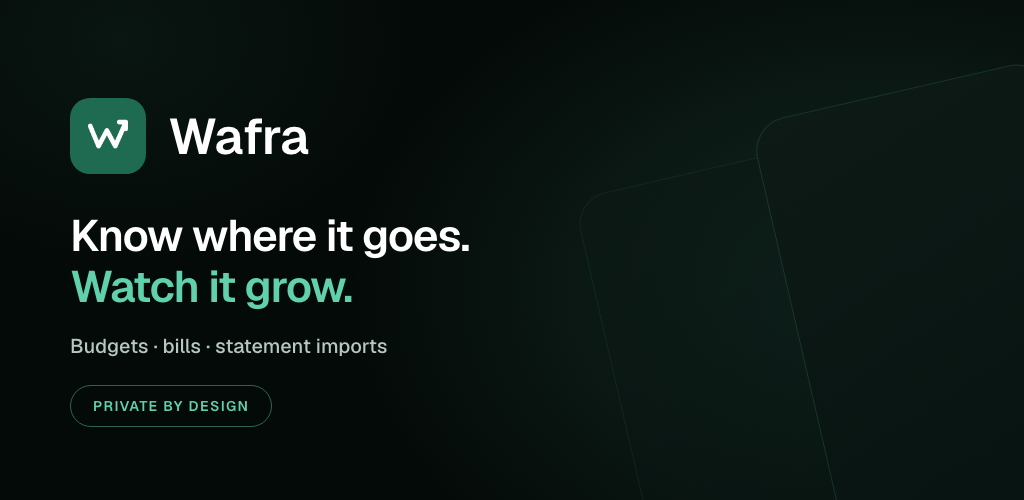
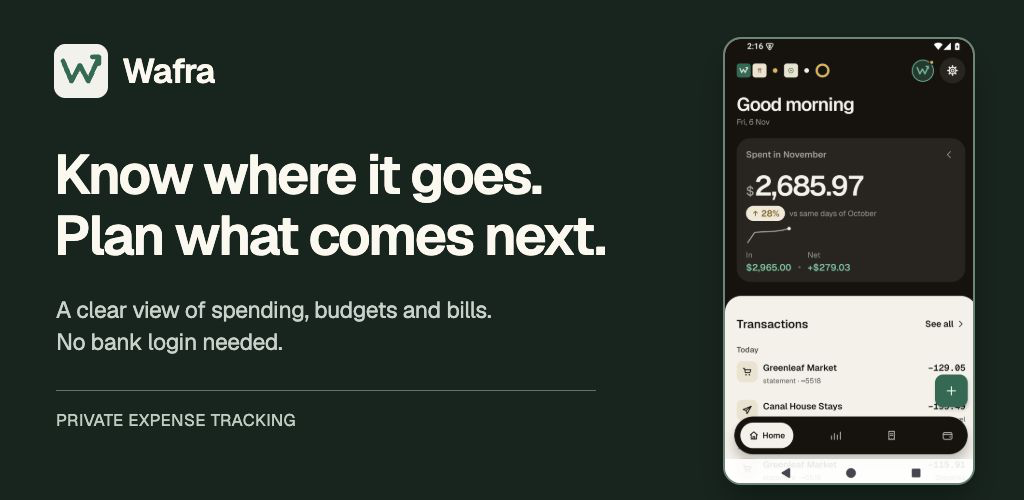
Polish Google Play launch copy and screenshot presentation

diff --git a/docs/store-assets/play/presentation/index.html b/docs/store-assets/play/presentation/index.html
@@ -1,0 +1,12 @@
+<!doctype html><html lang="en"><head><meta charset="utf-8"><meta name="viewport" content="width=device-width,initial-scale=1"><title>Wafra store presentation</title><style>
+@font-face{font-family:Geist;src:url('../../../../public/fonts/Geist-Regular.ttf');font-weight:400}@font-face{font-family:Geist;src:url('../../../../public/fonts/Geist-Medium.ttf');font-weight:500}@font-face{font-family:Geist;src:url('../../../../public/fonts/Geist-SemiBold.ttf');font-weight:600}
+*{box-sizing:border-box}html,body{margin:0;width:1080px;height:1920px;overflow:hidden;background:#f5f1e7;font-family:Geist,sans-serif}.stage{width:1080px;height:1920px;position:relative;overflow:hidden;--bg:#f4f0e7;--fg:#191b17;--muted:#62645e;background:var(--bg);color:var(--fg)}.ink{--bg:#14251e;--fg:#fcf8ef;--muted:#bbcbc2}.indigo{--bg:#252c55;--fg:#fcf8ef;--muted:#c6cce4}.ochre{--bg:#e3b75e;--fg:#24201a;--muted:#65522f}.slate{--bg:#285665;--fg:#fcf8ef;--muted:#c0d0d3}.brand{position:absolute;top:66px;left:72px;display:flex;align-items:center;gap:18px;font-size:36px;font-weight:600;letter-spacing:-1px}.brand img{width:62px;height:62px}.category{position:absolute;top:89px;right:74px;color:var(--muted);font-size:22px;letter-spacing:.6px}.heading{position:absolute;left:72px;top:175px;margin:0;font-size:86px;line-height:1.04;letter-spacing:-3.4px;font-weight:600;max-width:945px}.sub{position:absolute;left:76px;top:387px;width:900px;font-size:31px;line-height:1.35;color:var(--muted);margin:0;letter-spacing:-.4px}.device{position:absolute;top:510px;left:110px;width:860px;height:1370px;overflow:hidden;border:2px solid rgba(0,0,0,.14);border-radius:34px;box-shadow:0 22px 45px rgba(0,0,0,.14);background:#f5f1e7}.device img{position:absolute;left:0;top:-47.78px;width:860px;height:1528.89px}.footer{position:absolute;left:74px;right:74px;bottom:19px;display:flex;justify-content:space-between;font-size:19px;color:var(--muted);letter-spacing:.2px}.focus{position:absolute;left:72px;top:690px;width:936px;overflow:hidden;border-radius:30px;box-shadow:0 18px 44px rgba(0,0,0,.12);border:1px solid rgba(0,0,0,.12);background:#f5f1e7}.focus img{position:absolute;max-width:none}.focus-label{position:absolute;top:585px;left:76px;font-size:24px;font-weight:500;color:var(--muted)}.note{position:absolute;left:76px;right:76px;bottom:165px;font-size:34px;line-height:1.4;letter-spacing:-.5px;max-width:820px}.privacy .focus{left:72px;width:936px;top:640px;height:225px}.privacy .focus.second{top:980px;height:185px}.privacy .focus img{width:991.06px;left:-26.02px;top:-954.35px}.privacy .focus.second img{top:-1303.04px}.privacy .fact{position:absolute;left:76px;top:1210px;font-size:42px;line-height:1.8;letter-spacing:-1px}.fact span{display:block}.fact span:before{content:'✓';color:#1f6b52;margin-right:22px;font-weight:600}.feature{width:1024px;height:500px;background:#14251e;color:#fcf8ef}.feature .brand{left:54px;top:44px;font-size:34px;gap:14px}.feature .brand img{width:54px;height:54px}.feature .heading{left:54px;top:144px;max-width:620px;font-size:55px;line-height:1.1;letter-spacing:-2px}.feature .sub{left:56px;top:294px;width:580px;font-size:23px;line-height:1.4;color:#c6d1ca}.feature .pill{position:absolute;left:56px;top:390px;font-size:17px;letter-spacing:.4px;border-top:1px solid #547665;padding-top:18px;width:540px;color:#b9cfbf}.feature .device{top:37px;left:723px;width:252px;height:448px;border-radius:18px;box-shadow:0 18px 30px #0004;border:2px solid #668776}.feature .device img{width:252px;height:448px;top:0}
+</style></head><body><main class="stage" id="stage"></main><script>
+(async()=>{const q=new URLSearchParams(location.search),f=q.get('frame')||'01-home',stage=document.querySelector('#stage');const img=(file)=>'../native-source/'+file;const logo='../../../../public/wafra-icon.svg';
+if(f==='feature'){document.documentElement.style.cssText='width:1024px;height:500px';document.body.style.cssText='width:1024px;height:500px';stage.className='stage feature';stage.innerHTML=`<div class="brand"><img src="${logo}">Wafra</div><h1 class="heading">Know where it goes.<br>Plan what comes next.</h1><p class="sub">A clear view of spending, budgets and bills.<br>No bank login needed.</p><div class="pill">PRIVATE EXPENSE TRACKING</div><div class="device"><img src="${img('01-home.png')}"></div>`;}
+else{const frames=await(await fetch('./frames.json')).json(),p=frames.find(x=>x.id===f);if(!p)throw Error('Unknown frame');stage.className='stage '+p.theme+(p.kind==='privacy'?' privacy':'');stage.innerHTML=`<div class="brand"><img src="${logo}">Wafra</div><div class="category">PERSONAL FINANCE</div><h1 class="heading">${p.headline.join('<br>')}</h1><p class="sub">${p.sub}</p><div class="footer"><span>Actual app screens · Sample data</span><span>${String(frames.indexOf(p)+1).padStart(2,'0')} / 08</span></div>`;
+if(p.kind==='full')stage.innerHTML+=`<div class="device"><img src="${img(p.source)}"></div>`;
+else if(p.kind==='focus'){let[x,y,w,h]=p.focus,s=936/w;stage.innerHTML+=`<div class="focus-label">IN THE APP</div><div class="focus" style="height:${h*s}px"><img src="${img(p.source)}" style="width:${1080*s}px;left:${-x*s}px;top:${-y*s}px"></div><p class="note">${p.id.startsWith('02')?'You choose the access. Support varies by bank and message format.':p.id.startsWith('04')?'Upcoming dates. Clear amounts. One place to check.':'A little context makes a budget easier to follow.'}</p>`;}
+else{stage.innerHTML+=`<div class="focus"><img src="${img(p.source)}"></div><div class="focus second"><img src="${img(p.source)}"></div><div class="fact"><span>Optional app lock</span><span>No bank login</span><span>Exports you control</span></div>`;}}
+await document.fonts.ready;await Promise.all([...document.images].map(x=>x.decode()));document.body.dataset.ready='true';})().catch(e=>{document.body.dataset.error=e.message;throw e});
+</script></body></html>

diff --git a/scripts/test/store-package.test.js b/scripts/test/store-package.test.js
@@ -59,7 +59,9 @@ const ok = (name, condition, detail = '') => {
     ok('generated Apple metadata preserves the reviewed listing name',
       appleName === 'Wafra: Budget & Money Tracker', appleName);
     ok('generated Google metadata preserves the global English listing copy',
-      googleEnglish.includes('privately'), googleEnglish);
+      googleEnglish === JSON.parse(fs.readFileSync(
+        path.join(root, 'docs/store-metadata.json'), 'utf8',
+      )).googlePlay.listings['global-en'].shortDescription, googleEnglish);
     ok('generated asc app-info metadata preserves the reviewed listing identity',
       ascAppInfo.name === 'Wafra: Budget & Money Tracker' && Boolean(ascAppInfo.subtitle));
     ok('generated asc version metadata preserves the global English copy',

diff --git a/docs/store-assets/play/presentation/README.md b/docs/store-assets/play/presentation/README.md
@@ -1,0 +1,9 @@
+# Google Play launch presentation
+
+The eight English launch artboards use real Android captures with synthetic ledger data. `../native-source/` preserves the original pixels from builds 380/382; these are not claimed as new build 392 captures. `frames.json` defines the final order, captions and clearly framed detail crops. Native UI was not redrawn or changed.
+
+Serve the repository root over localhost, open `index.html?frame=01-home` through `08-privacy-settings` using the IDs in `frames.json`, and capture the rendered page at exactly 1080 × 1920 after fonts and images load. `index.html?frame=feature` uses 1024 × 500. The page exposes `body[data-ready="true"]` when ready. A browser JPEG capture was converted to opaque RGB PNG with `sips`; the conversion does not retouch content. Final output hashes and source hashes are in `PROVENANCE.json`.
+
+The final images are `../global-en/` and `../global-en-feature-graphic.png`. The existing app icon remains unchanged. English is the active launch locale; Arabic source drafts do not establish an uploaded localized listing. The new presentation assets were declared as AI-assisted in Play Console because their marketing copy and layout were produced with assistance; embedded native UI remains actual app UI.
+
+Verify with `npm run check:store`, `npm run check:store-assets`, `npm run check:store-pricing`, and `node --test scripts/test/store-package.test.js scripts/test/store-pricing.test.js`. These checks validate packaging and source facts; they do not establish Google approval, publication, or real purchase behavior.
